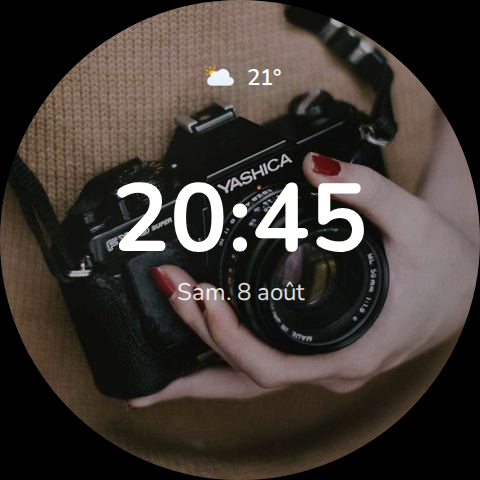
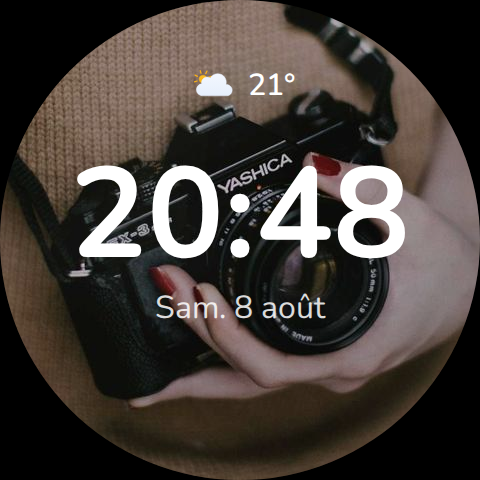
1.0.1: agrandit horloge, date et bloc météo
Le texte occupait trop peu d'espace à l'écran — clock-size en
particulier se rapproche désormais du 55vh du template View Assist
d'origine (clamp(6rem, 44vh, 16rem)). Idem en mode round et pour le
bloc météo compact. Captures docs/ régénérées en conséquence.

Changed region(s): [[0.1562, 0.3438, 0.8438, 0.5625], [0.3125, 0.5938, 0.6875, 0.6875], [0.4062, 0.125, 0.625, 0.2188]]

diff --git a/src/echo-home-card.js b/src/echo-home-card.js
@@ -253,15 +253,15 @@ class EchoHomeCard extends LitElement {
       width: 100%;
       overflow: hidden;
       box-sizing: border-box;
-      --_clock-size: var(--echo-home-clock-size, clamp(5rem, 32vh, 11rem));
-      --_date-size: var(--echo-home-date-size, clamp(1.3rem, 8vh, 2.4rem));
+      --_clock-size: var(--echo-home-clock-size, clamp(6rem, 44vh, 16rem));
+      --_date-size: var(--echo-home-date-size, clamp(1.7rem, 11vh, 3.4rem));
       --_weather-icon-size: var(
         --echo-home-weather-icon-size,
-        clamp(44px, 13vh, 76px)
+        clamp(56px, 16vh, 100px)
       );
       --_weather-temp-size: var(
         --echo-home-weather-temp-size,
-        clamp(1.3rem, 7vh, 2.2rem)
+        clamp(1.7rem, 9vh, 3rem)
       );
       --_text-color: var(--echo-home-text-color, #ffffff);
       /* "red" tel quel par défaut (pas une teinte adoucie) : c'est
@@ -390,17 +390,17 @@ class EchoHomeCard extends LitElement {
        round. Valeurs propres à ce layout (pas de variable CSS exposée),
        comme pour echo-weather-card. */
     .card.round .clock {
-      font-size: clamp(3rem, 26vmin, 6rem);
+      font-size: clamp(3.6rem, 34vmin, 8rem);
     }
     .card.round .date {
-      font-size: clamp(0.95rem, 6.5vmin, 1.5rem);
+      font-size: clamp(1.2rem, 8.5vmin, 2rem);
     }
     .card.round .weather-icon {
-      width: clamp(30px, 9vmin, 46px);
-      height: clamp(30px, 9vmin, 46px);
+      width: clamp(36px, 12vmin, 58px);
+      height: clamp(36px, 12vmin, 58px);
     }
     .card.round .weather-temp {
-      font-size: clamp(0.95rem, 6vmin, 1.4rem);
+      font-size: clamp(1.2rem, 8vmin, 1.9rem);
     }
   `;
 }

diff --git a/dist/echo-home-card.js b/dist/echo-home-card.js
@@ -804,15 +804,15 @@ D(V, "properties", {
       width: 100%;
       overflow: hidden;
       box-sizing: border-box;
-      --_clock-size: var(--echo-home-clock-size, clamp(5rem, 32vh, 11rem));
-      --_date-size: var(--echo-home-date-size, clamp(1.3rem, 8vh, 2.4rem));
+      --_clock-size: var(--echo-home-clock-size, clamp(6rem, 44vh, 16rem));
+      --_date-size: var(--echo-home-date-size, clamp(1.7rem, 11vh, 3.4rem));
       --_weather-icon-size: var(
         --echo-home-weather-icon-size,
-        clamp(44px, 13vh, 76px)
+        clamp(56px, 16vh, 100px)
       );
       --_weather-temp-size: var(
         --echo-home-weather-temp-size,
-        clamp(1.3rem, 7vh, 2.2rem)
+        clamp(1.7rem, 9vh, 3rem)
       );
       --_text-color: var(--echo-home-text-color, #ffffff);
       /* "red" tel quel par défaut (pas une teinte adoucie) : c'est
@@ -941,17 +941,17 @@ D(V, "properties", {
        round. Valeurs propres à ce layout (pas de variable CSS exposée),
        comme pour echo-weather-card. */
     .card.round .clock {
-      font-size: clamp(3rem, 26vmin, 6rem);
+      font-size: clamp(3.6rem, 34vmin, 8rem);
     }
     .card.round .date {
-      font-size: clamp(0.95rem, 6.5vmin, 1.5rem);
+      font-size: clamp(1.2rem, 8.5vmin, 2rem);
     }
     .card.round .weather-icon {
-      width: clamp(30px, 9vmin, 46px);
-      height: clamp(30px, 9vmin, 46px);
+      width: clamp(36px, 12vmin, 58px);
+      height: clamp(36px, 12vmin, 58px);
     }
     .card.round .weather-temp {
-      font-size: clamp(0.95rem, 6vmin, 1.4rem);
+      font-size: clamp(1.2rem, 8vmin, 1.9rem);
     }
   `);
 customElements.define($e, V);

diff --git a/README.md b/README.md
@@ -219,10 +219,10 @@ rien à régler. À poser sur le sélecteur `:host` de la carte (via
 | `--echo-home-night-color` | Couleur de l'horloge en mode nuit | `red` |
 | `--echo-home-night-opacity` | Opacité de l'horloge en mode nuit | `0.35` |
 | `--echo-home-shader-color` | Voile posé sur l'image de fond pour la lisibilité | `rgba(0, 0, 0, 0.15)` |
-| `--echo-home-clock-size` | Taille de l'horloge (mise en page large) | `clamp(5rem, 32vh, 11rem)` |
-| `--echo-home-date-size` | Taille de la date (mise en page large) | `clamp(1.3rem, 8vh, 2.4rem)` |
-| `--echo-home-weather-icon-size` | Taille de l'icône météo (mise en page large) | `clamp(44px, 13vh, 76px)` |
-| `--echo-home-weather-temp-size` | Taille de la température (mise en page large) | `clamp(1.3rem, 7vh, 2.2rem)` |
+| `--echo-home-clock-size` | Taille de l'horloge (mise en page large) | `clamp(6rem, 44vh, 16rem)` |
+| `--echo-home-date-size` | Taille de la date (mise en page large) | `clamp(1.7rem, 11vh, 3.4rem)` |
+| `--echo-home-weather-icon-size` | Taille de l'icône météo (mise en page large) | `clamp(56px, 16vh, 100px)` |
+| `--echo-home-weather-temp-size` | Taille de la température (mise en page large) | `clamp(1.7rem, 9vh, 3rem)` |
 
 Le mode round a ses propres tailles ajustées, non exposées en variables
 CSS (comme dans echo-weather-card).

diff --git a/CHANGELOG.md b/CHANGELOG.md
@@ -1,5 +1,11 @@
 # Changelog
 
+## 1.0.1
+
+- Horloge, date et bloc météo nettement plus grands (horloge notamment,
+  qui se rapproche désormais de l'échelle "55vh" du template View Assist
+  d'origine) — le texte occupait trop peu d'espace à l'écran en v1.0.0.
+
 ## 1.0.0
 
 Première version. Réplique en vraie carte Lit la vue d'accueil View
